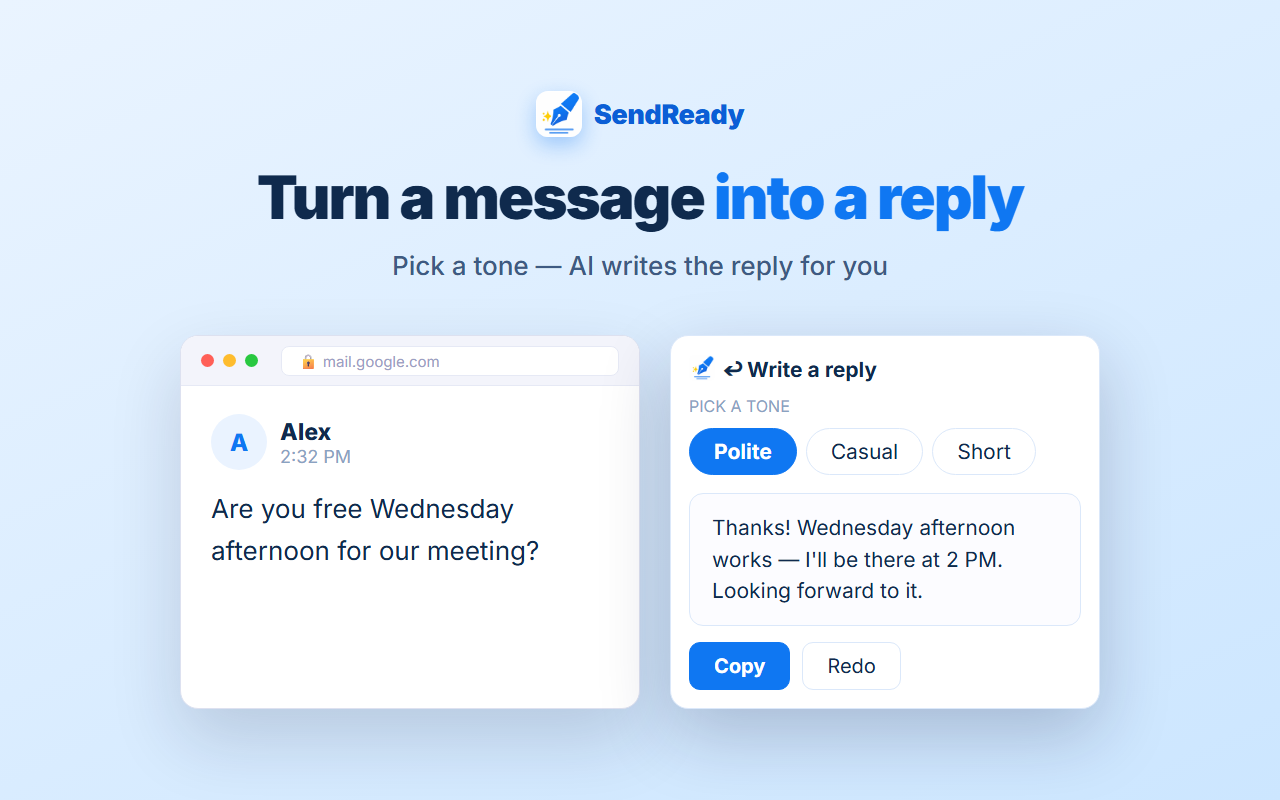
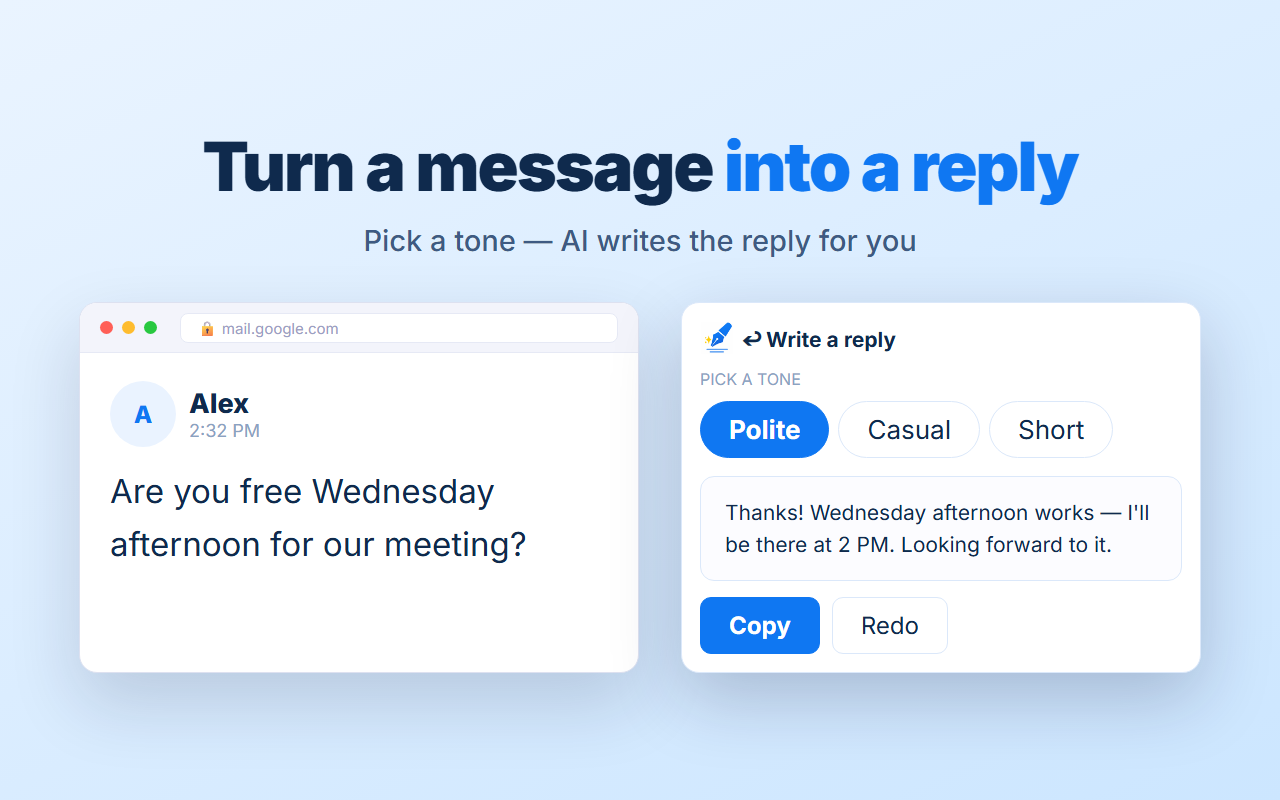
SendReady Chrome: store-image を画面いっぱいに、アプリ名表示を削除
- 余白を縮小し見出し・ビジュアルを拡大して1280x800を有効活用
- 各画像上部の「SendReady」ロックアップを削除（アプリアイコンは維持）。
  ポップオーバー/ポップアップ/フィーチャーのアプリ名テキストも削除

Changed region(s): [[0.0625, 0.375, 0.9375, 0.9062], [0.1562, 0.0938, 0.8438, 0.3438]]

diff --git a/sendready-chrome/store-images.html b/sendready-chrome/store-images.html
@@ -18,11 +18,11 @@ body { background:#C8CCE0; font-family:'Inter',sans-serif; -webkit-font-smoothin
 
 /* ── canvas (1280x800) ── */
 .si { width:1280px; height:800px; position:relative; overflow:hidden; margin:0 auto 56px;
-  display:flex; flex-direction:column; align-items:center; justify-content:center; gap:54px; padding:70px; }
+  display:flex; flex-direction:column; align-items:center; justify-content:center; gap:44px; padding:48px; }
 .cap { text-align:center; z-index:2; max-width:1040px; }
-.cap h1 { font-size:60px; font-weight:900; color:var(--t1); letter-spacing:-2px; line-height:1.15; }
+.cap h1 { font-size:68px; font-weight:900; color:var(--t1); letter-spacing:-2px; line-height:1.15; }
 .cap h1 .ind { color:var(--ind); }
-.cap p { font-size:26px; color:var(--t2); margin-top:18px; font-weight:500; }
+.cap p { font-size:29px; color:var(--t2); margin-top:18px; font-weight:500; }
 .brand { display:inline-flex; align-items:center; gap:12px; margin-bottom:26px; }
 .brand img { width:46px; height:46px; border-radius:12px; box-shadow:0 8px 20px rgba(15,119,242,.32); }
 .brand span { font-size:27px; font-weight:900; color:var(--ind-deep); letter-spacing:-.5px; }
@@ -38,62 +38,62 @@ body { background:#C8CCE0; font-family:'Inter',sans-serif; -webkit-font-smoothin
 /* ── SendReady popover (clean, standalone) ── */
 .panel { background:#fff; border-radius:18px; padding:18px; border:1px solid var(--dv); box-shadow:0 26px 70px rgba(20,22,58,.22); }
 .p-head { display:flex; align-items:center; gap:9px; margin-bottom:14px; }
-.p-head img { width:26px; height:26px; } .p-head b { font-size:21px; font-weight:700; color:var(--t1); } .p-head .x { margin-left:auto; color:var(--t3); font-size:19px; }
-.p-item { display:flex; align-items:center; gap:13px; padding:14px 14px; border-radius:12px; font-size:23px; color:var(--t1); }
+.p-head img { width:34px; height:34px; } .p-head b { font-size:21px; font-weight:700; color:var(--t1); } .p-head .x { margin-left:auto; color:var(--t3); font-size:19px; }
+.p-item { display:flex; align-items:center; gap:14px; padding:17px 16px; border-radius:13px; font-size:28px; color:var(--t1); }
 .p-item.hi { background:rgba(15,119,242,.12); outline:2.5px solid var(--ind); outline-offset:-2.5px; }
-.p-tag { font-size:15px; font-weight:700; padding:4px 11px; border-radius:8px; background:rgba(15,119,242,.14); color:var(--ind); }
+.p-tag { font-size:18px; font-weight:700; padding:5px 13px; border-radius:8px; background:rgba(15,119,242,.14); color:var(--ind); }
 .p-tag.s { background:rgba(254,206,4,.14); color:var(--snip); }
-.p-item .t { flex:1; } .p-item .g { font-family:'Inter',monospace; font-size:18px; color:var(--t3); font-weight:600; }
+.p-item .t { flex:1; } .p-item .g { font-family:'Inter',monospace; font-size:21px; color:var(--t3); font-weight:600; }
 
 /* selected-text pill */
-.seltext { font-size:25px; color:var(--t1); background:rgba(15,119,242,.12); border:1.5px dashed rgba(15,119,242,.45); border-radius:14px; padding:18px 26px; max-width:640px; line-height:1.5; text-align:center; }
+.seltext { font-size:31px; color:var(--t1); background:rgba(15,119,242,.12); border:1.5px dashed rgba(15,119,242,.45); border-radius:14px; padding:22px 32px; max-width:840px; line-height:1.5; text-align:center; }
 
 /* before/after */
 .ba { display:flex; flex-direction:column; align-items:center; gap:22px; }
-.ba-card { width:760px; border-radius:18px; padding:28px 34px; }
-.ba-card .l { font-size:16px; font-weight:800; letter-spacing:.12em; margin-bottom:10px; }
-.ba-card .x { font-size:30px; line-height:1.45; }
+.ba-card { width:980px; border-radius:18px; padding:34px 44px; }
+.ba-card .l { font-size:18px; font-weight:800; letter-spacing:.12em; margin-bottom:10px; }
+.ba-card .x { font-size:37px; line-height:1.45; }
 .ba-card.gray { background:#F1F3FA; border:1.5px solid var(--dv); }
 .ba-card.gray .l { color:var(--t3); } .ba-card.gray .x { color:var(--t2); }
 .ba-card.blue { background:rgba(15,119,242,.07); border:2px solid rgba(15,119,242,.4); }
 .ba-card.blue .l { color:var(--ind); } .ba-card.blue .x { color:var(--t1); font-weight:600; }
 .ba-mid { display:flex; align-items:center; gap:12px; }
-.ba-pill { background:var(--ind); color:#fff; border-radius:999px; padding:9px 24px; font-size:21px; font-weight:700; }
+.ba-pill { background:var(--ind); color:#fff; border-radius:999px; padding:12px 30px; font-size:26px; font-weight:700; }
 
 /* input + result row */
-.io { display:flex; align-items:center; gap:30px; }
+.io { display:flex; align-items:center; gap:42px; }
 .io .lab { font-size:17px; font-weight:800; letter-spacing:.1em; margin-bottom:12px; }
-.io-box { border-radius:16px; padding:22px 26px; font-size:30px; min-height:104px; display:flex; align-items:center; }
+.io-box { border-radius:16px; padding:26px 30px; font-size:37px; min-height:132px; display:flex; align-items:center; }
 .mono { font-family:'Inter',monospace; font-weight:700; }
 .cur { display:inline-block; width:3px; height:34px; vertical-align:-6px; margin-left:3px; }
-.io-arrow { font-size:46px; font-weight:300; }
-.resbox { border:1px solid var(--dv); border-radius:14px; padding:18px 22px; font-size:26px; color:var(--t1); line-height:1.5; background:#fcfcff; }
+.io-arrow { font-size:56px; font-weight:300; }
+.resbox { border:1px solid var(--dv); border-radius:14px; padding:20px 24px; font-size:31px; color:var(--t1); line-height:1.5; background:#fcfcff; }
 .acts { display:flex; gap:12px; margin-top:16px; }
-.btn { font-size:20px; padding:11px 24px; border-radius:11px; border:1px solid var(--dv); color:var(--t1); }
+.btn { font-size:24px; padding:13px 28px; border-radius:11px; border:1px solid var(--dv); color:var(--t1); }
 .btn.p { background:var(--ind); color:#fff; border-color:var(--ind); font-weight:700; }
-.chip { font-size:21px; padding:10px 24px; border-radius:999px; border:1px solid var(--dv); color:var(--t1); }
+.chip { font-size:26px; padding:12px 28px; border-radius:999px; border:1px solid var(--dv); color:var(--t1); }
 .chip.on { background:var(--ind); color:#fff; border-color:var(--ind); font-weight:700; }
-.kbd { font-family:'Inter',monospace; font-size:20px; background:#fff; border:1px solid #cbd2ee; border-bottom-width:3px; border-radius:9px; padding:7px 15px; font-weight:700; color:var(--t1); }
+.kbd { font-family:'Inter',monospace; font-size:24px; background:#fff; border:1px solid #cbd2ee; border-bottom-width:3px; border-radius:9px; padding:7px 15px; font-weight:700; color:var(--t1); }
 
 /* received message card */
 .msg .who { display:flex; align-items:center; gap:13px; margin-bottom:18px; }
-.msg .av { width:56px; height:56px; border-radius:50%; background:var(--bg-alt); display:flex; align-items:center; justify-content:center; font-weight:800; color:var(--ind); font-size:24px; }
-.msg .nm { font-weight:800; font-size:23px; color:var(--t1); } .msg .tm { font-size:18px; color:var(--t3); }
-.msg .body { font-size:26px; color:var(--t1); line-height:1.6; }
+.msg .av { width:66px; height:66px; border-radius:50%; background:var(--bg-alt); display:flex; align-items:center; justify-content:center; font-weight:800; color:var(--ind); font-size:24px; }
+.msg .nm { font-weight:800; font-size:27px; color:var(--t1); } .msg .tm { font-size:18px; color:var(--t3); }
+.msg .body { font-size:33px; color:var(--t1); line-height:1.6; }
 
 /* popup */
-.popup { width:440px; background:#fff; border-radius:20px; box-shadow:0 30px 70px rgba(20,22,58,.2); border:1px solid #e6e9f5; overflow:hidden; }
+.popup { width:560px; background:#fff; border-radius:20px; box-shadow:0 30px 70px rgba(20,22,58,.2); border:1px solid #e6e9f5; overflow:hidden; }
 .pu-hd { display:flex; align-items:center; justify-content:space-between; padding:18px 20px; border-bottom:1px solid var(--dv); }
-.pu-ttl { display:flex; align-items:center; gap:9px; font-weight:800; font-size:22px; color:var(--t1); } .pu-ttl img { width:26px; height:26px; }
-.pu-use { font-size:16px; color:var(--t3); }
+.pu-ttl { display:flex; align-items:center; gap:11px; font-weight:800; font-size:27px; color:var(--t1); } .pu-ttl img { width:34px; height:34px; }
+.pu-use { font-size:19px; color:var(--t3); }
 .pu-body { padding:18px 20px 22px; }
-.pu-sec { font-size:16px; font-weight:800; margin:14px 0 9px; letter-spacing:.04em; }
+.pu-sec { font-size:19px; font-weight:800; margin:14px 0 9px; letter-spacing:.04em; }
 .pu-sec.a { color:var(--ind); } .pu-sec.s { color:var(--snip); }
-.pu-row { display:flex; align-items:center; gap:12px; padding:14px 15px; border:1px solid var(--dv); border-radius:13px; margin-bottom:9px; }
-.pu-rt { font-size:14px; font-weight:700; padding:4px 9px; border-radius:7px; }
+.pu-row { display:flex; align-items:center; gap:13px; padding:17px 18px; border:1px solid var(--dv); border-radius:13px; margin-bottom:9px; }
+.pu-rt { font-size:16px; font-weight:700; padding:5px 11px; border-radius:7px; }
 .pu-rt.a { background:rgba(15,119,242,.14); color:var(--ind); } .pu-rt.s { background:rgba(254,206,4,.14); color:var(--snip); }
-.pu-rm { flex:1; } .pu-rm .t { font-weight:700; font-size:19px; color:var(--t1); } .pu-rm .d { font-size:15px; color:var(--t3); }
-.pu-rg { font-family:'Inter',monospace; font-size:17px; color:var(--t3); font-weight:600; }
+.pu-rm { flex:1; } .pu-rm .t { font-weight:700; font-size:23px; color:var(--t1); } .pu-rm .d { font-size:18px; color:var(--t3); }
+.pu-rg { font-family:'Inter',monospace; font-size:20px; color:var(--t3); font-weight:600; }
 
 /* feature marquee 1400x560 */
 .feat-banner { width:1400px; height:560px; position:relative; overflow:hidden; margin:0 auto 56px; background:linear-gradient(135deg,#0B5ED6 0%,#0F77F2 55%,#4DA3FF 100%); display:flex; align-items:center; padding:0 90px; gap:60px; }
@@ -102,8 +102,8 @@ body { background:#C8CCE0; font-family:'Inter',sans-serif; -webkit-font-smoothin
 .fb-brand img { width:48px; height:48px; border-radius:12px; box-shadow:0 8px 22px rgba(0,0,0,.3); }
 .fb-brand span { font-size:28px; font-weight:900; color:#fff; letter-spacing:-.5px; }
 .fb-badge { display:inline-flex; align-items:center; gap:9px; background:rgba(255,255,255,.16); border:1px solid rgba(255,255,255,.32); color:#fff; font-size:19px; font-weight:700; padding:10px 24px; border-radius:100px; margin-bottom:28px; }
-.fb-title { font-size:62px; font-weight:900; line-height:1.15; letter-spacing:-2px; margin-bottom:22px; }
-.fb-sub { font-size:25px; color:rgba(255,255,255,.85); line-height:1.55; font-weight:500; }
+.fb-title { font-size:74px; font-weight:900; line-height:1.15; letter-spacing:-2px; margin-bottom:22px; }
+.fb-sub { font-size:29px; color:rgba(255,255,255,.85); line-height:1.55; font-weight:500; }
 .fb-pills { display:flex; gap:13px; margin-top:32px; }
 .fb-pill { background:rgba(255,255,255,.15); border:1px solid rgba(255,255,255,.3); color:#fff; font-size:20px; font-weight:700; padding:11px 26px; border-radius:100px; }
 .fb-right { width:430px; display:flex; justify-content:center; }
@@ -114,7 +114,7 @@ body { background:#C8CCE0; font-family:'Inter',sans-serif; -webkit-font-smoothin
 <!-- ════ IMG 1: Polish (before → after) ════ -->
 <div class="si" id="img1" style="background:linear-gradient(155deg,#FFFFFF,#DCEEFF);">
   <div class="glow" style="right:-120px;top:-120px;width:560px;height:560px;background:radial-gradient(circle,rgba(15,119,242,.1),transparent 60%);"></div>
-  <div class="cap"><div class="brand"><img src="icons/icon128.png" alt=""><span>SendReady</span></div><h1>Polish your words <span class="ind">with AI</span></h1><p>From a quick draft to ready-to-send — in one tap</p></div>
+  <div class="cap"><h1>Polish your words <span class="ind">with AI</span></h1><p>From a quick draft to ready-to-send — in one tap</p></div>
   <div class="ba">
     <div class="ba-card gray"><div class="l">YOU TYPED</div><div class="x">tmrw 10 works, thx</div></div>
     <div class="ba-mid"><span class="ba-pill">💝 Polish</span></div>
@@ -124,11 +124,11 @@ body { background:#C8CCE0; font-family:'Inter',sans-serif; -webkit-font-smoothin
 
 <!-- ════ IMG 2: Select → menu ════ -->
 <div class="si" id="img2" style="background:linear-gradient(155deg,#EAF4FF,#CCE6FF);">
-  <div class="cap"><div class="brand"><img src="icons/icon128.png" alt=""><span>SendReady</span></div><h1>Select text, <span class="ind">pick a preset</span></h1><p>Polish · Translate · Summarize · Fix typos</p></div>
+  <div class="cap"><h1>Select text, <span class="ind">pick a preset</span></h1><p>Polish · Translate · Summarize · Fix typos</p></div>
   <div style="display:flex;flex-direction:column;align-items:center;gap:26px;">
     <div class="seltext">"Could you send me the report by Friday?"</div>
-    <div class="panel" style="width:460px;">
-      <div class="p-head"><img src="icons/icon128.png"><b>SendReady</b><span class="x">✕</span></div>
+    <div class="panel" style="width:560px;">
+      <div class="p-head"><img src="icons/icon128.png"><span class="x">✕</span></div>
       <div class="p-item hi"><span class="p-tag">AI</span><span class="t">Polish 💝</span><span class="g">//p</span></div>
       <div class="p-item"><span class="p-tag">AI</span><span class="t">Translate 🌏</span><span class="g">//tr</span></div>
       <div class="p-item"><span class="p-tag">AI</span><span class="t">Summarize 📝</span><span class="g">//sum</span></div>
@@ -139,9 +139,9 @@ body { background:#C8CCE0; font-family:'Inter',sans-serif; -webkit-font-smoothin
 
 <!-- ════ IMG 3: Inline trigger ════ -->
 <div class="si" id="img3" style="background:linear-gradient(155deg,#FFFFFF,#DCEEFF);">
-  <div class="cap"><div class="brand"><img src="icons/icon128.png" alt=""><span>SendReady</span></div><h1>Type a trigger, <span class="ind">hit Enter</span></h1><p>Write //p before your text — AI transforms it in place</p></div>
+  <div class="cap"><h1>Type a trigger, <span class="ind">hit Enter</span></h1><p>Write //p before your text — AI transforms it in place</p></div>
   <div class="io">
-    <div class="win" style="width:470px;">
+    <div class="win" style="width:560px;">
       <div class="win-bar"><span class="dot dr"></span><span class="dot dy"></span><span class="dot dg"></span><div class="url">🔒 x.com</div></div>
       <div style="padding:26px;">
         <div class="lab" style="color:var(--ind);">TYPE</div>
@@ -150,8 +150,8 @@ body { background:#C8CCE0; font-family:'Inter',sans-serif; -webkit-font-smoothin
       </div>
     </div>
     <div class="io-arrow" style="color:var(--ind);">→</div>
-    <div class="panel" style="width:380px;">
-      <div class="p-head"><img src="icons/icon128.png"><b>SendReady</b><span class="x">✕</span></div>
+    <div class="panel" style="width:470px;">
+      <div class="p-head"><img src="icons/icon128.png"><span class="x">✕</span></div>
       <div class="resbox">I'll be there at 10 tomorrow.</div>
       <div class="acts"><span class="btn p">Apply</span><span class="btn">Copy</span><span class="btn">Redo</span></div>
     </div>
@@ -160,16 +160,16 @@ body { background:#C8CCE0; font-family:'Inter',sans-serif; -webkit-font-smoothin
 
 <!-- ════ IMG 4: Reply ════ -->
 <div class="si" id="img4" style="background:linear-gradient(155deg,#EAF4FF,#CCE6FF);">
-  <div class="cap"><div class="brand"><img src="icons/icon128.png" alt=""><span>SendReady</span></div><h1>Turn a message <span class="ind">into a reply</span></h1><p>Pick a tone — AI writes the reply for you</p></div>
+  <div class="cap"><h1>Turn a message <span class="ind">into a reply</span></h1><p>Pick a tone — AI writes the reply for you</p></div>
   <div class="io" style="align-items:stretch;">
-    <div class="win msg" style="width:460px;">
+    <div class="win msg" style="width:560px;">
       <div class="win-bar"><span class="dot dr"></span><span class="dot dy"></span><span class="dot dg"></span><div class="url">🔒 mail.google.com</div></div>
       <div style="padding:28px 30px;">
         <div class="who"><div class="av">A</div><div><div class="nm">Alex</div><div class="tm">2:32 PM</div></div></div>
         <div class="body">Are you free Wednesday afternoon for our meeting?</div>
       </div>
     </div>
-    <div class="panel" style="width:430px;">
+    <div class="panel" style="width:520px;">
       <div class="p-head"><img src="icons/icon128.png"><b>↩ Write a reply</b></div>
       <div style="font-size:16px;color:var(--t3);margin-bottom:12px;">PICK A TONE</div>
       <div style="display:flex;gap:9px;margin-bottom:18px;"><span class="chip on">Polite</span><span class="chip">Casual</span><span class="chip">Short</span></div>
@@ -181,9 +181,9 @@ body { background:#C8CCE0; font-family:'Inter',sans-serif; -webkit-font-smoothin
 
 <!-- ════ IMG 5: Snippets ════ -->
 <div class="si" id="img5" style="background:linear-gradient(155deg,#FFFFFF,#DCEEFF);">
-  <div class="cap"><div class="brand"><img src="icons/icon128.png" alt=""><span>SendReady</span></div><h1>Instant <span class="ind" style="color:var(--snip);">text snippets</span></h1><p>Type ;sig and your signature pops in — no AI needed</p></div>
+  <div class="cap"><h1>Instant <span class="ind" style="color:var(--snip);">text snippets</span></h1><p>Type ;sig and your signature pops in — no AI needed</p></div>
   <div class="io">
-    <div class="win" style="width:430px;">
+    <div class="win" style="width:520px;">
       <div class="win-bar"><span class="dot dr"></span><span class="dot dy"></span><span class="dot dg"></span><div class="url">🔒 mail.google.com</div></div>
       <div style="padding:26px;">
         <div class="lab" style="color:var(--snip);">TYPE</div>
@@ -192,7 +192,7 @@ body { background:#C8CCE0; font-family:'Inter',sans-serif; -webkit-font-smoothin
       </div>
     </div>
     <div class="io-arrow" style="color:var(--snip);">→</div>
-    <div class="win" style="width:380px;">
+    <div class="win" style="width:470px;">
       <div class="win-bar"><span class="dot dr"></span><span class="dot dy"></span><span class="dot dg"></span><div class="url">🔒</div></div>
       <div style="padding:24px;">
         <div style="border:1px solid var(--dv);border-radius:14px;padding:20px;font-size:20px;color:var(--t1);line-height:1.7;background:#fcfcff;">———————<br>Alex Carter<br>📧 alex@example.com<br>📱 (555) 123-4567</div>
@@ -204,9 +204,9 @@ body { background:#C8CCE0; font-family:'Inter',sans-serif; -webkit-font-smoothin
 
 <!-- ════ IMG 6: Your presets ════ -->
 <div class="si" id="img6" style="background:linear-gradient(155deg,#EAF4FF,#CCE6FF);">
-  <div class="cap"><div class="brand"><img src="icons/icon128.png" alt=""><span>SendReady</span></div><h1>Make it <span class="ind">your own</span></h1><p>Up to 10 AI presets and 10 snippets — your triggers</p></div>
+  <div class="cap"><h1>Make it <span class="ind">your own</span></h1><p>Up to 10 AI presets and 10 snippets — your triggers</p></div>
   <div class="popup">
-    <div class="pu-hd"><div class="pu-ttl"><img src="icons/icon128.png">SendReady</div><span class="pu-use">Today 12 / 50</span></div>
+    <div class="pu-hd"><div class="pu-ttl"><img src="icons/icon128.png"></div><span class="pu-use">Today 12 / 50</span></div>
     <div class="pu-body">
       <div class="pu-sec a">AI PRESETS</div>
       <div class="pu-row"><span class="pu-rt a">AI</span><div class="pu-rm"><div class="t">Polish 💝</div><div class="d">More polite and respectful</div></div><span class="pu-rg">//p</span></div>
@@ -221,7 +221,7 @@ body { background:#C8CCE0; font-family:'Inter',sans-serif; -webkit-font-smoothin
 <div class="feat-banner" id="feature">
   <div class="glow" style="left:-100px;bottom:-150px;width:480px;height:480px;background:radial-gradient(circle,rgba(255,255,255,.14),transparent 60%);"></div>
   <div class="fb-left">
-    <div class="fb-brand"><img src="icons/icon128.png" alt=""><span>SendReady</span></div>
+    <div class="fb-brand"><img src="icons/icon128.png" alt=""></div>
     <div class="fb-badge">⚡ 100% Free · Chrome Extension</div>
     <div class="fb-title">Transform any text<br>with AI, in one tap</div>
     <div class="fb-sub">Polish, translate, summarize &amp; reply —<br>in any text field. Snippets expand instantly, too.</div>
@@ -229,7 +229,7 @@ body { background:#C8CCE0; font-family:'Inter',sans-serif; -webkit-font-smoothin
   </div>
   <div class="fb-right">
     <div class="panel" style="width:400px;box-shadow:0 40px 90px rgba(0,0,0,.38);">
-      <div class="p-head"><img src="icons/icon128.png"><b>SendReady</b><span class="x">✕</span></div>
+      <div class="p-head"><img src="icons/icon128.png"><span class="x">✕</span></div>
       <div class="p-item hi"><span class="p-tag">AI</span><span class="t">Polish 💝</span><span class="g">//p</span></div>
       <div class="p-item"><span class="p-tag">AI</span><span class="t">Translate 🌏</span><span class="g">//tr</span></div>
       <div class="p-item"><span class="p-tag">AI</span><span class="t">Summarize 📝</span><span class="g">//sum</span></div>
